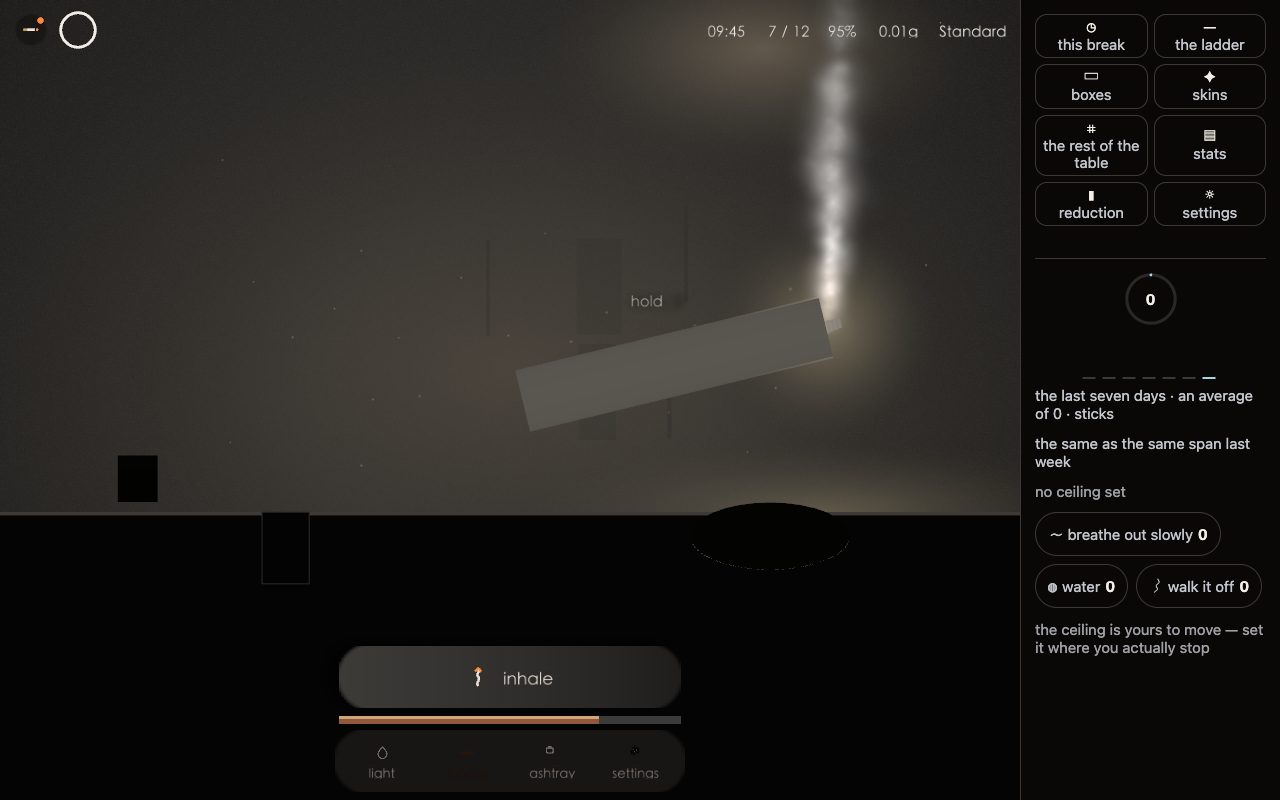
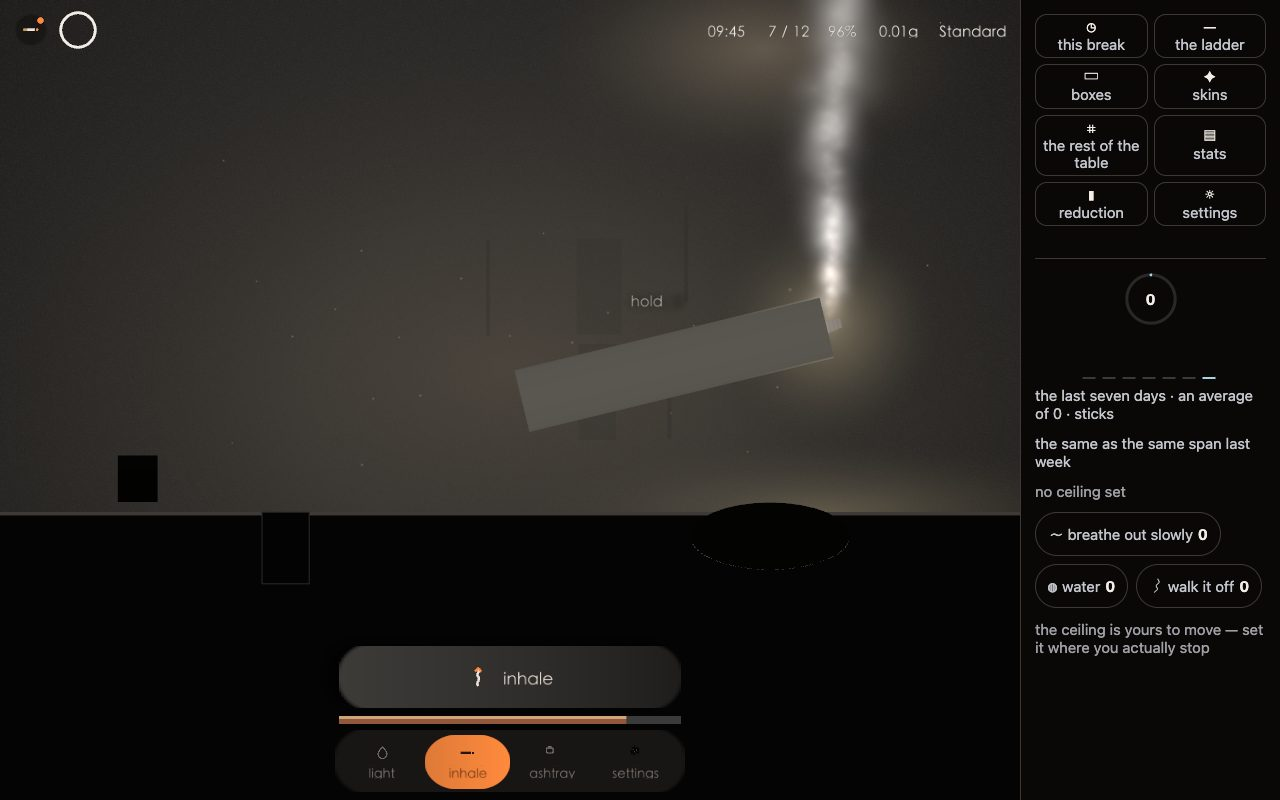
fix(web): 导轨选中那格的橙色卡面此前只在第一帧有效 —— 渐变分支没把 opacity 拿回来
标题猜错了，先量再改（#137 原本写"标签被力度条压掉半截"）。实测两侧都不重叠：
`.cta .art.force` 在 y 766..778，`.rail` 从 782 起，四个标签在 815..833，场景那四格文字的基线
落在 830.5 —— DOM 与画面一致，没有压。截图里那团"看不清的选中态"是**对比度**：§1 给选中那格配的
是深墨 #2a1408（稿子 `.item.on{background:var(--grad-nav);color:var(--on-ember)}` 的一对），
而它下面那层橙卡面根本没画出来，深墨就落在深底上。

根因一行：`fillCard` 的渐变分支只重建几何与顶点色，从不写 `material.opacity`；opacity 只有
"平涂"那一支会写，而 `background: none` 走的正是平涂支 → 0。于是**任何一张卡从"没底"变成"有渐变底"
都留着那个 0**。导轨第一格在页面首帧就是选中的，走的是渐变支拿到默认 1，所以看起来是好的；
行一走到第二格，那一格此前是安静的 0，卡面就再也不出现。同一支缺陷罩着面板里所有"选中才有底色"的
格子（语言档、烟雾档…）。

改了什么：
- `fillCard` 渐变分支补 `material.opacity = 1`（渐变本身就是"画了东西"，与平涂支对称）。
- 四格卡面按 `rail-tab-0..3` 命名，判据才指得准具体哪一块。
- 真机新增一格：在烟还躺在桌上（phase light，选中第一格）先读一次，吸一口之后（phase puff，
  选中第二格）再读一次 —— 断言的是**这一跳**：选中那格卡面不透明、其余三格全 0。只判"当前位置对不对"
  会被首帧那个巧合满足，正是这条缺陷的藏身处。

证据（两次单点变异各跑一遍真机）：
- 撤掉那一行：只红这一格，`at the table tab 0 plate 1 (light) → after the breath tab 1 plate 0 (puff),
  others 0, ops [0,0,0,0]`（/tmp/puffly-gate/device-137mut2.log）。
- 装回去：`ops [0,1,0,0]`，真机 160/160（load 3.07，/tmp/puffly-gate/device-137d.log）；
  门禁六步全 0。
- README 四张因此再重拍一次：选中那格的橙胶囊现在在图里了。

diff --git a/apps/web/src/components/SceneStage.vue b/apps/web/src/components/SceneStage.vue
@@ -700,18 +700,21 @@ function onSceneReady(context: unknown): void {
   hudRig.value = buildRig();
   pillRig.value = buildRig();
 
-  const buildCard = (z: number): CardRig => {
+  const buildCard = (z: number, name = ''): CardRig => {
     const material = new THREE.MeshBasicMaterial({ transparent: true, depthWrite: false });
     const mesh = new THREE.Mesh(new THREE.PlaneGeometry(1, 1), material);
     mesh.frustumCulled = false;
     mesh.visible = false;
     mesh.position.z = z;
+    // Named where a browser check has to point at one specific plate — the rail's four tabs are the
+    // only cards whose fill arrives and leaves with the state, so that is where the claim lives.
+    mesh.name = name;
     rigGroup.add(mesh);
     return { mesh, material, signature: '', baseY: 0, baseOpacity: 1 };
   };
   pillCardRig.value = buildCard(0.05);
   railRig.value = buildCard(0.068);
-  tabRigs.value = [buildCard(0.07), buildCard(0.07), buildCard(0.07), buildCard(0.07)];
+  tabRigs.value = [0, 1, 2, 3].map((index) => buildCard(0.07, `rail-tab-${String(index)}`));
   catCardRig.value = buildCard(0.06);
   archiveCardRig.value = buildCard(0.09);
 
@@ -2700,6 +2703,13 @@ function fillCard(rig: CardRig, element: HTMLElement | null, shrink: number): vo
       // Vertex colours are what carry the stops; without this the card paints a flat white.
       material.vertexColors = true;
       material.color.set('#ffffff');
+      // A gradient background is a painted thing: the opacity has to come back to 1. The flat branch
+      // below writes an opacity for every case it sees — including `background: none`, which is 0 —
+      // and a card that starts quiet and later gets a gradient (the rail's tabs, the selected chips)
+      // kept that 0. Measured on the served build 2026-10-11: the lit tab's plate sat at opacity 0
+      // with its gradient geometry in place, so the tab's dark §1 ink had no orange under it and the
+      // selected row read as blank.
+      material.opacity = 1;
     } else {
       const flat = parseColour(style.backgroundColor);
       positions.push(-0.5, -0.5, 0, 0.5, -0.5, 0, -0.5, 0.5, 0, 0.5, 0.5, 0);
